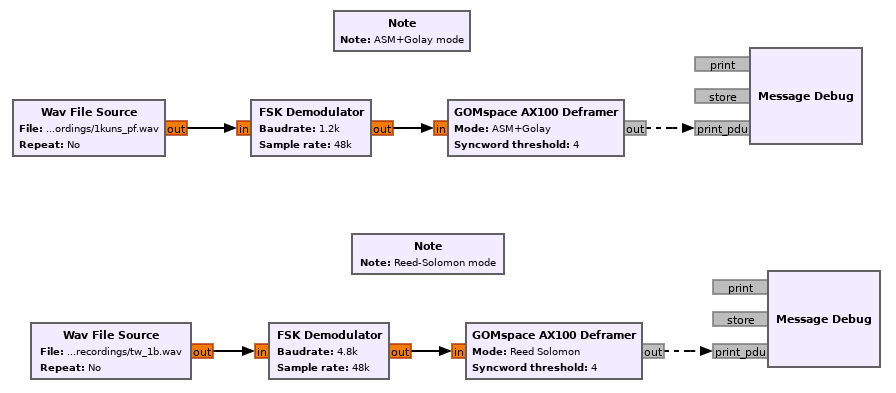
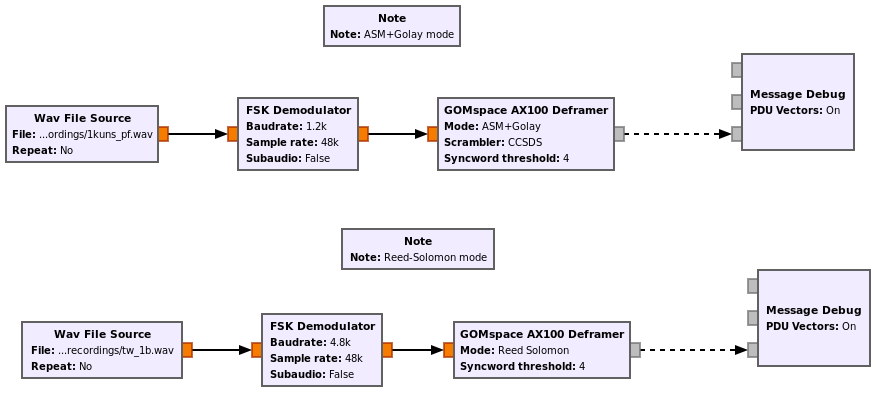
Add ability to disable AX100 ASM+Golay scrambler
This adds an option in the GRC block and the possibility to
use the scrambler field in SatYAML, as it is already done for
the CCSDS deframers

See #234

(cherry picked from commit da5ca55845de2812aa51a007ef3208eccf80328d)

diff --git a/python/components/deframers/ax100_deframer.py b/python/components/deframers/ax100_deframer.py
@@ -24,14 +24,19 @@ class ax100_deframer(gr.hier_block2, options_block):
 
     Args:
         mode: mode to use ('RS' or 'ASM') (string)
+        scrambler: scrambler to use, either 'CCSDS' or 'none' (only for ASM mode) (str)
         syncword_threshold: number of bit errors allowed in syncword (int)
         options: Options from argparse
     """
-    def __init__(self, mode, syncword_threshold = None, options = None):
+    def __init__(self, mode, scrambler = 'CCSDS',
+                     syncword_threshold = None, options = None):
         gr.hier_block2.__init__(self, "ax100_deframer",
             gr.io_signature(1, 1, gr.sizeof_float),
             gr.io_signature(0, 0, 0))
         options_block.__init__(self, options)
+
+        if scrambler not in ['CCSDS', 'none']:
+            raise ValueError(f'invalid scrambler {scrambler}')
         
         self.message_port_register_hier_out('out')
 
@@ -48,7 +53,9 @@ class ax100_deframer(gr.hier_block2, options_block):
                                            sync = _syncword,\
                                            threshold = syncword_threshold)
         self.fec = ax100_decode(self.options.verbose_fec) if mode == 'RS'\
-          else u482c_decode(self.options.verbose_fec, 0, 1, 1)
+          else u482c_decode(self.options.verbose_fec, 0,
+                                1 if scrambler == 'CCSDS' else 0,
+                                1)
 
         self._blocks = [self, self.slicer]
         if mode == 'RS':

diff --git a/docs/source/components.rst b/docs/source/components.rst
@@ -298,9 +298,13 @@ Debug blocks.
 
     Usage of AX100 deframer in a flowgraph
 
-The AX100 deframer only has two options, the *Mode* option indicates the
+In Reed Solomon mode, the AX100 deframer only has two options:
+the *Mode* option indicates the
 mode, as described above, and the *Syncword threshold* option specifies how
 many bit errors are allowed in the detection of the 32 bit syncword.
+In ASM+Golay mode, the AX100 deframer has an additional option:
+*Scrambler*, which can be used to enable or disable the CCSDS synchronous
+scrambler.
 
 .. _GOMspace U482C deframer:
 

diff --git a/docs/source/satyaml.rst b/docs/source/satyaml.rst
@@ -262,6 +262,11 @@ CCSDS protocol. These are:
   optional and defaults to ``CCSDS`` if not specified.
 
 
+The ``AX100 ASM+Golay`` mode also supports the ``scrambler`` field, with the
+possible values ``CCSDS`` and ``none``. The default is ``CCSDS``, but the value
+``none`` can be used in case the scrambler needs to be disabled (which is a
+rarely used feature).
+
 The following example shows how transports are indicated in SatYAML files.
 
 .. code-block:: none

diff --git a/CHANGELOG.md b/CHANGELOG.md
@@ -15,6 +15,7 @@ and this project adheres to [Semantic Versioning](https://semver.org/spec/v2.0.0
 - Support for SMOG-1
 - Env variable GR_SATELLITES_SUBMIT_TLM to force/disable telemetry submission
 - Support for NanosatC-BR1 and NanosatC-BR2
+- Ability to disable AX100 ASM+Golay scrambler in SatYAML and GRC block
 
 ## Changed
 - In gr_satellites, do not disable non-telemetry datasinks in --hexdump mode
